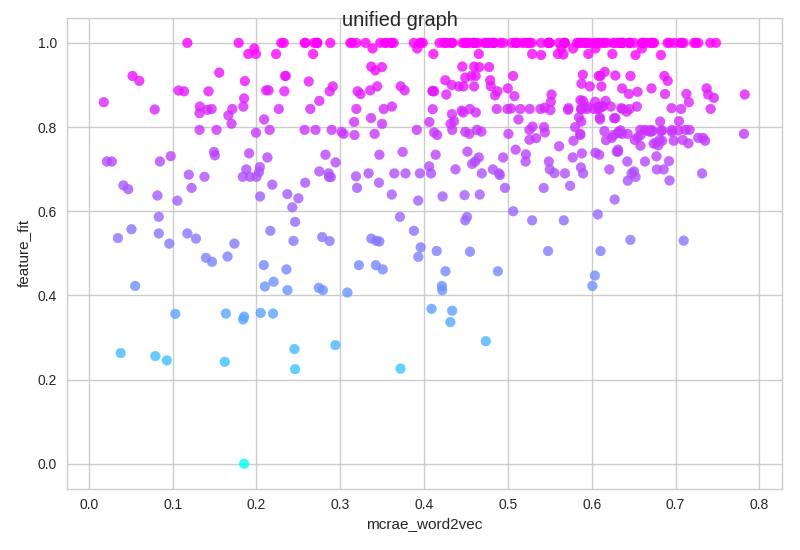
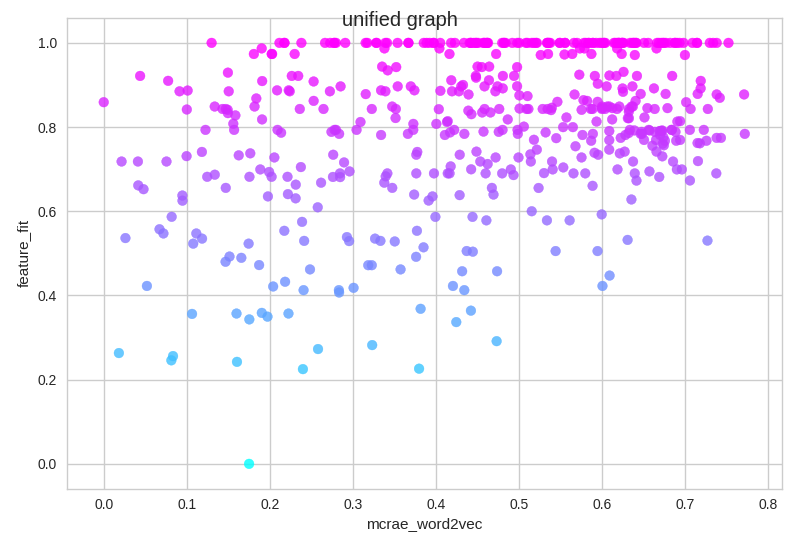
changed domain clustering weighting to 1:10

diff --git a/subgraphs/feature_fit.py b/subgraphs/feature_fit.py
@@ -33,7 +33,7 @@ import random
 # resulting feature_fit metric represents how well these representations encode
 # the relevant features. Each axis of the resulting graphs also involves the
 # pivot source.
-PIVOT = "cc"
+PIVOT = "word2vec"
 if PIVOT == "mcrae":
     INPUT = "./all/mcrae_vectors.txt"
 elif PIVOT == "cslb":
@@ -45,7 +45,7 @@ elif PIVOT == "cc":
 elif PIVOT == "word2vec":
     INPUT = "../word2vec/GoogleNews-vectors-negative300.bin"
 
-SOURCE = "cslb"
+SOURCE = "mcrae"
 if SOURCE == "mcrae":
     FEATURES = "../mcrae/CONCS_FEATS_concstats_brm.txt"
 else:
@@ -72,6 +72,8 @@ if PIVOT == "wikigiga":
     PIVOT_FORMAL = "Wikipedia+Gigaword"
 elif PIVOT == "cc":
     PIVOT_FORMAL = "Common Crawl"
+elif PIVOT == "word2vec":
+    PIVOT_FORMAL = "Word2Vec"
 
 if SOURCE == "cslb":
     SOURCE_FORMAL = "CSLB"
@@ -655,7 +657,7 @@ def cluster_metric_fn(x, y):
         return emb_dist
     else:
         weight_dist = (x_weight - y_weight) ** 2
-        return emb_dist + 100 * weight_dist
+        return emb_dist + 10 * weight_dist
 
 
 def try_cluster(k, X):
